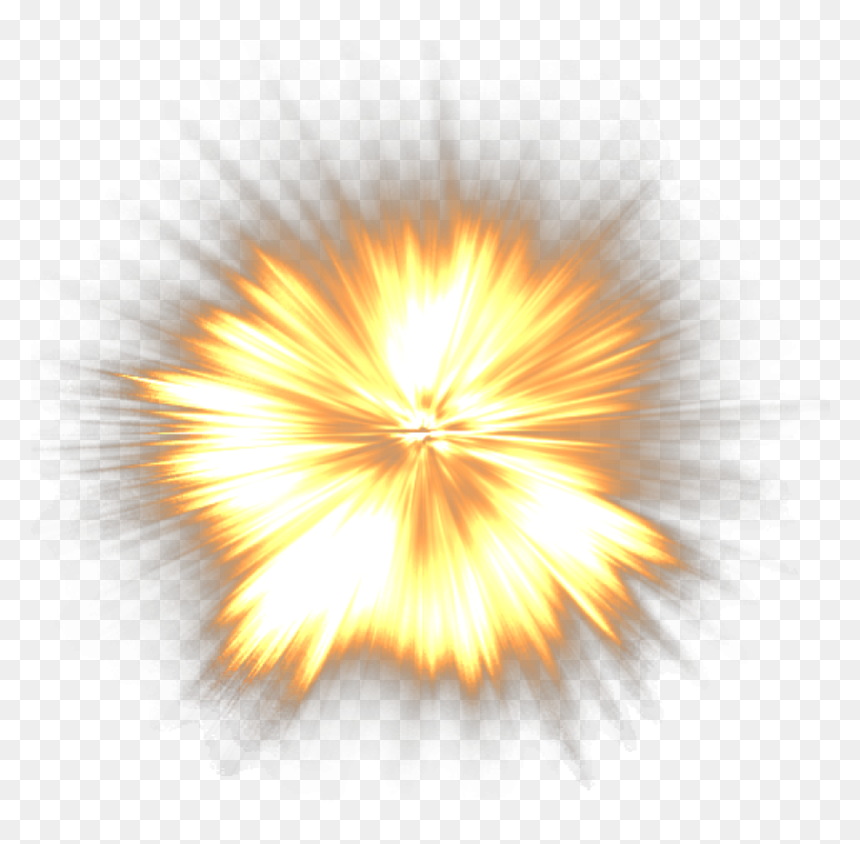
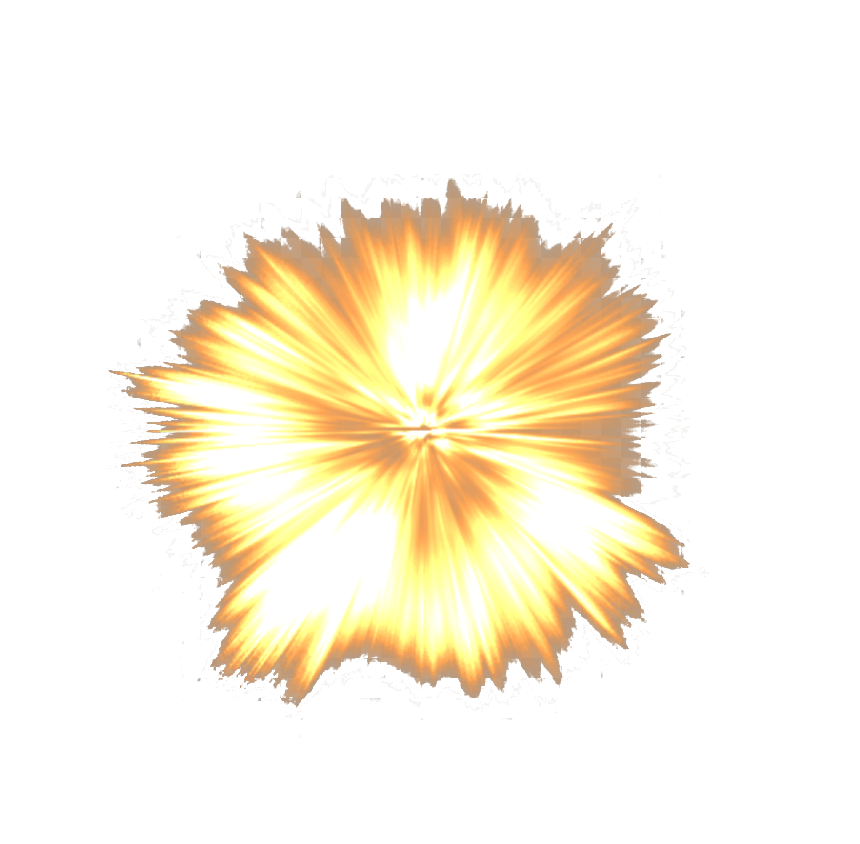
add bulletHit animation

Changed region(s): [[0.0605, 0.0924, 0.9372, 0.9242]]

diff --git a/src/game/factory/Factory.js b/src/game/factory/Factory.js
@@ -9,6 +9,8 @@ import Golem from '../entities/Enemies/Golem/Golem';
 import Bang from '../entities/Effects/Bang/Bang';
 import removeFromArray from '../lib/removeFromArray';
 import defineUnit from '../lib/defineUnit';
+import BulletHit from '../entities/Effects/BulletHit/BulletHit';
+import Effects from '../entities/Effects/Effect.creator';
 
 const levels = [
   level1,
@@ -102,22 +104,31 @@ export default class GameFactory {
     } else if (type === "player") {
       this.removePlayer();
     }
-  }
-
-  /* Эффекты */
-  addBang = ({centerX, centerY}) => {
-    const idx = this.effects.length;
-    const key = "effect" + idx;
-    const bang = new Bang({
-      centerX, centerY, factory: this, key, idx
-    });
-    this.game.entities[key] = bang;
-    this.effects.push(bang);
   };
 
-  removeEffect = (idx) => {
+  /* Эффекты */
+  addEffect = (getEffect, props) => {
+    const idx = this.effects.length;
     const key = "effect" + idx;
-    this.effects = removeFromArray(this.effects, idx);
+    const effect = getEffect({...props, key, idx});
+    this.game.entities[key] = effect;
+    this.effects.push(effect);
+  };
+
+  addBang = ({centerX, centerY}) => {
+    const props = {centerX, centerY, factory: this};
+    this.addEffect(Effects.bang, props);
+  };
+
+  addBulletHit = ({centerX, centerY}) => {
+    const props = { centerX, centerY, factory: this }
+    this.addEffect(Effects.bulletHit, props);
+  };
+
+  removeEffect = (effect) => {
+    const key = "effect" + effect.idx;
+    this.effects = removeFromArray(this.effects, effect.idx);
+    defineUnit(effect);
     delete this.game.entities[key];
   };
 

diff --git a/src/game/entities/Effects/BulletHit/BulletHit.js b/src/game/entities/Effects/BulletHit/BulletHit.js
@@ -1,32 +1,32 @@
-import png from './bullet.hit.png';
+import png from './bullet.hit1.png';
 import Effect from '../Effect';
 
 const asset = `url(${png})`;
 
 const animation = {
   slides: [
-    { x: -763, y: -369, w: 200, h: 181, duration: 5, scale: 1 },
-    { x: -64, y: -131, w: 257, h: 172, duration: 5, scale: 1 },
-    { x: -322, y: -139, w: 194, h: 172, duration: 5, scale: 1 },
-    { x: -516, y: -125, w: 254, h: 211, duration: 5, scale: 1},
-    { x: -779, y: -137, w: 178, h: 211, duration: 5, scale: 1},
+    { x: 0, y: 0, w: 35, h: 31, duration: 3, scale: 0.2 },
+    { x: 0, y: 0, w: 35, h: 31, duration: 3, scale: 0.4 },
+    { x: 0, y: 0, w: 35, h: 31, duration: 3, scale: 0.5 },
+    { x: 0, y: 0, w: 35, h: 31, duration: 3, scale: 0.8 },
+    { x: 0, y: 0, w: 35, h: 31, duration: 3, scale: 1 },
   ],
   isCycle: false
 };
 
 export default class BulletHit extends Effect {
-  constructor({left, top, factory, key}) {
+  constructor({centerX, centerY, factory, idx}) {
     super({
-      top: top,
-      left: left,
-      width: animation.slides[0].w,
-      height: animation.slides[0].h,
+      centerX,
+      centerY,
+      width: 35,
+      height: 31,
       animation,
-      bgx: animation.slides[0].x,
-      bgy: animation.slides[0].y,
+      bgx: 0,
+      bgy: 0,
       asset,
       factory: factory,
-      key
+      idx,
     })
   }
 }

diff --git a/src/game/entities/Effects/Effect.js b/src/game/entities/Effects/Effect.js
@@ -1,19 +1,20 @@
 import Renderer from './Effect.renderer';
+import './Effect.css';
 
 export default class Effect {
-  constructor({centerX, centerY, width, height, animation, bgx, bgy, asset, factory, idx}) {
+  constructor({centerX, centerY, width, height, animation, bgx, bgy, asset, factory, idx }) {
     this.width = width;
     this.height = height;
     this.left = centerX - width / 2;
     this.top = centerY - height / 2;
     this.bgx = bgx;
     this.bgy = bgy;
-    this.animation = {
+    this.animation = animation ? {
       slides: animation.slides,
       isCycle: animation.isCycle,
       frameIdx: 0,
       durationIdx: 0,
-    };
+    } : null;
     this.asset = asset;
     this.factory = factory;
     this.idx = idx;
@@ -22,9 +23,16 @@ export default class Effect {
     this.renderer = Renderer;
   };
 
-  remove = () => this.factory.removeEffect(this.idx);
+  remove = () => {
+    delete this.animation
+    this.factory.removeEffect(this)
+  };
 
   animate = () => {
+    if (!this.animation) {
+      return
+    };
+    console.log('animate')
     const { slides, isCycle, frameIdx, durationIdx } = this.animation;
     const frame = slides[frameIdx];
     const { w, h, x, y, duration, scale } = frame;

diff --git a/src/game/entities/Effects/BulletHit/Bullet.html b/src/game/entities/Effects/BulletHit/Bullet.html
@@ -1,0 +1,46 @@
+<div class="container">
+  <div id="item">
+
+  </div>
+</div>
+
+<script>
+
+const animation = {
+  slides: [
+    { x: -128, y: -180, w: 560, h: 520, duration: 5, scale: 1 },
+    { x: -64, y: -131, w: 257, h: 172, duration: 5, scale: 1 },
+    { x: -322, y: -139, w: 194, h: 172, duration: 5, scale: 1 },
+    { x: -516, y: -125, w: 254, h: 211, duration: 5, scale: 1},
+    { x: -779, y: -137, w: 178, h: 211, duration: 5, scale: 1},
+  ],
+  isCycle: false
+};
+
+  const getProps = props => {
+    const { w, h, bgx, bgy, scale } = props;
+    item.style.width = `${w}px`;
+    item.style.height = `${h}px`;
+    item.style.backgroundPositionX = `${bgx}px`;
+    item.style.backgroundPositionY = `${bgy}px`;
+    item.style.transform = `scale${scale}`;
+  }
+
+  getProps(animation.slides[0]);
+</script>
+
+<style>
+  .container {
+    width: 100vw;
+    height: 100vh;
+    display: flex;
+    flex-direction: row;
+    align-items: center;
+    justify-content: center;
+  }
+
+  #item {
+    background-image: url(./bullet.hit.png);
+    background-color: black;
+  }
+</style>

diff --git a/src/game/entities/guns/Bullet/Bullet.js b/src/game/entities/guns/Bullet/Bullet.js
@@ -20,7 +20,7 @@ class _Bullet {
     this.top = y;
     this.backgroundPosition = [bgx, bgy];
     this.angle = angle;
-    this.body = Matter.Bodies.rectangle(this.left, this.top, this.size[0], this.size[1], { speed: speed, isStatic: true, mass: 1 });
+    this.body = Matter.Bodies.rectangle(this.left, this.top, this.size[0], this.size[1], { speed: speed, mass: 0});
     this.renderer = Bullet;
     this.speed = speed;
     this.animateIndex = 0;
@@ -64,7 +64,11 @@ class _Bullet {
 
   hitTarget = () => {
     /* пуля подпадает в цель => должна взорваться и исчезнуть из мира matter-js и из entities */
-    this.factory.deleteBullet(this)
+    this.factory.addBulletHit({
+      centerX: this.body.position.x,
+      centerY: this.body.position.y
+    })
+    this.factory.deleteBullet(this);
   }
 
 }

diff --git a/src/game/entities/Effects/Effect.creator.js b/src/game/entities/Effects/Effect.creator.js
@@ -1,0 +1,7 @@
+import Bang from './Bang/Bang';
+import BulletHit from './BulletHit/BulletHit';
+
+export default {
+  bang: ({centerX, centerY, factory, key, idx}) => new Bang({centerX, centerY, factory, key, idx}),
+  bulletHit: ({centerX, centerY, factory, idx}) => new BulletHit({centerX, centerY, factory, idx})
+}

diff --git a/src/game/entities/Effects/Effect.renderer.js b/src/game/entities/Effects/Effect.renderer.js
@@ -6,8 +6,9 @@ export default function Effect (props) {
   console.log(props)
 
   return <div 
-    className="effect" 
+    className="effect"
     style={{
+      position: 'absolute',
       width: props.width,
       height: props.height,
       left: props.left,

diff --git a/src/game/matter/collisions.js b/src/game/matter/collisions.js
@@ -88,5 +88,11 @@ export default function addCollosionsHandlers() {
           enemy.isJumping = false;
         };
       };
+
+      if (isBulletColide()) {
+        if (staticUnit) {
+          bullet.hitTarget();
+        }
+      }
     });
   };

diff --git a/src/game/entities/Enemies/Enemy.js b/src/game/entities/Enemies/Enemy.js
@@ -30,6 +30,10 @@ class Enemy extends Unit {
   runDieAnimation = () => {
     this.factory.addBang({centerX: this.body.position.x, centerY: this.body.position.y});
     this.factory.removeUnit(this);
+  };
+
+  hitReaction = () => {
+
   }
 
 };

diff --git a/src/game/entities/Enemies/Golem/Golem.js b/src/game/entities/Enemies/Golem/Golem.js
@@ -37,9 +37,4 @@ export default class Golem extends Enemy {
     this.animate();
   };
 
-  hitReaction = () => {
-    console.log('hit reaction')
-    Matter.Body.applyForce(this.body, this.body.position, {x: -2, y: 0})
-  }
-
 }

diff --git a/src/game/entities/Effects/Effect.css b/src/game/entities/Effects/Effect.css
@@ -2,3 +2,4 @@
   position: absolute;
   transition: cubic-bezier(0.075, 0.82, 0.165, 1);
 }
+
